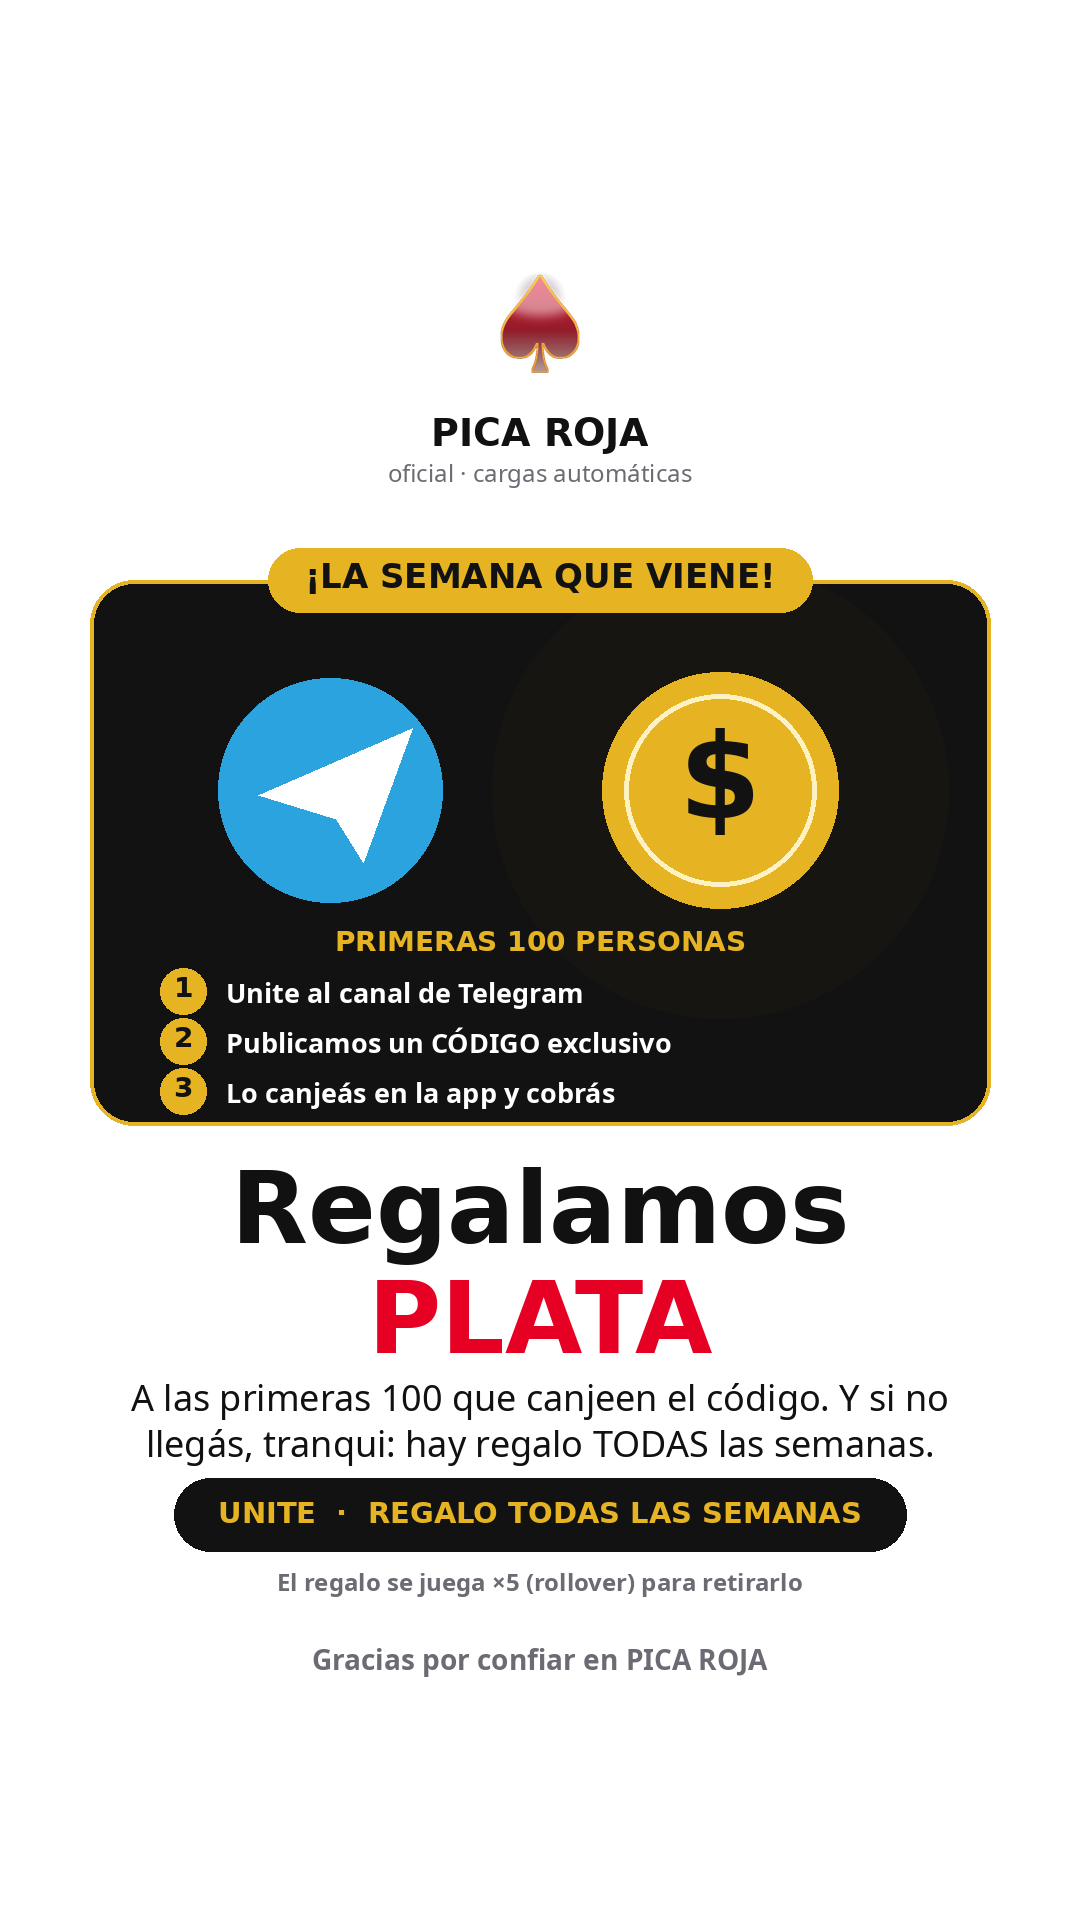
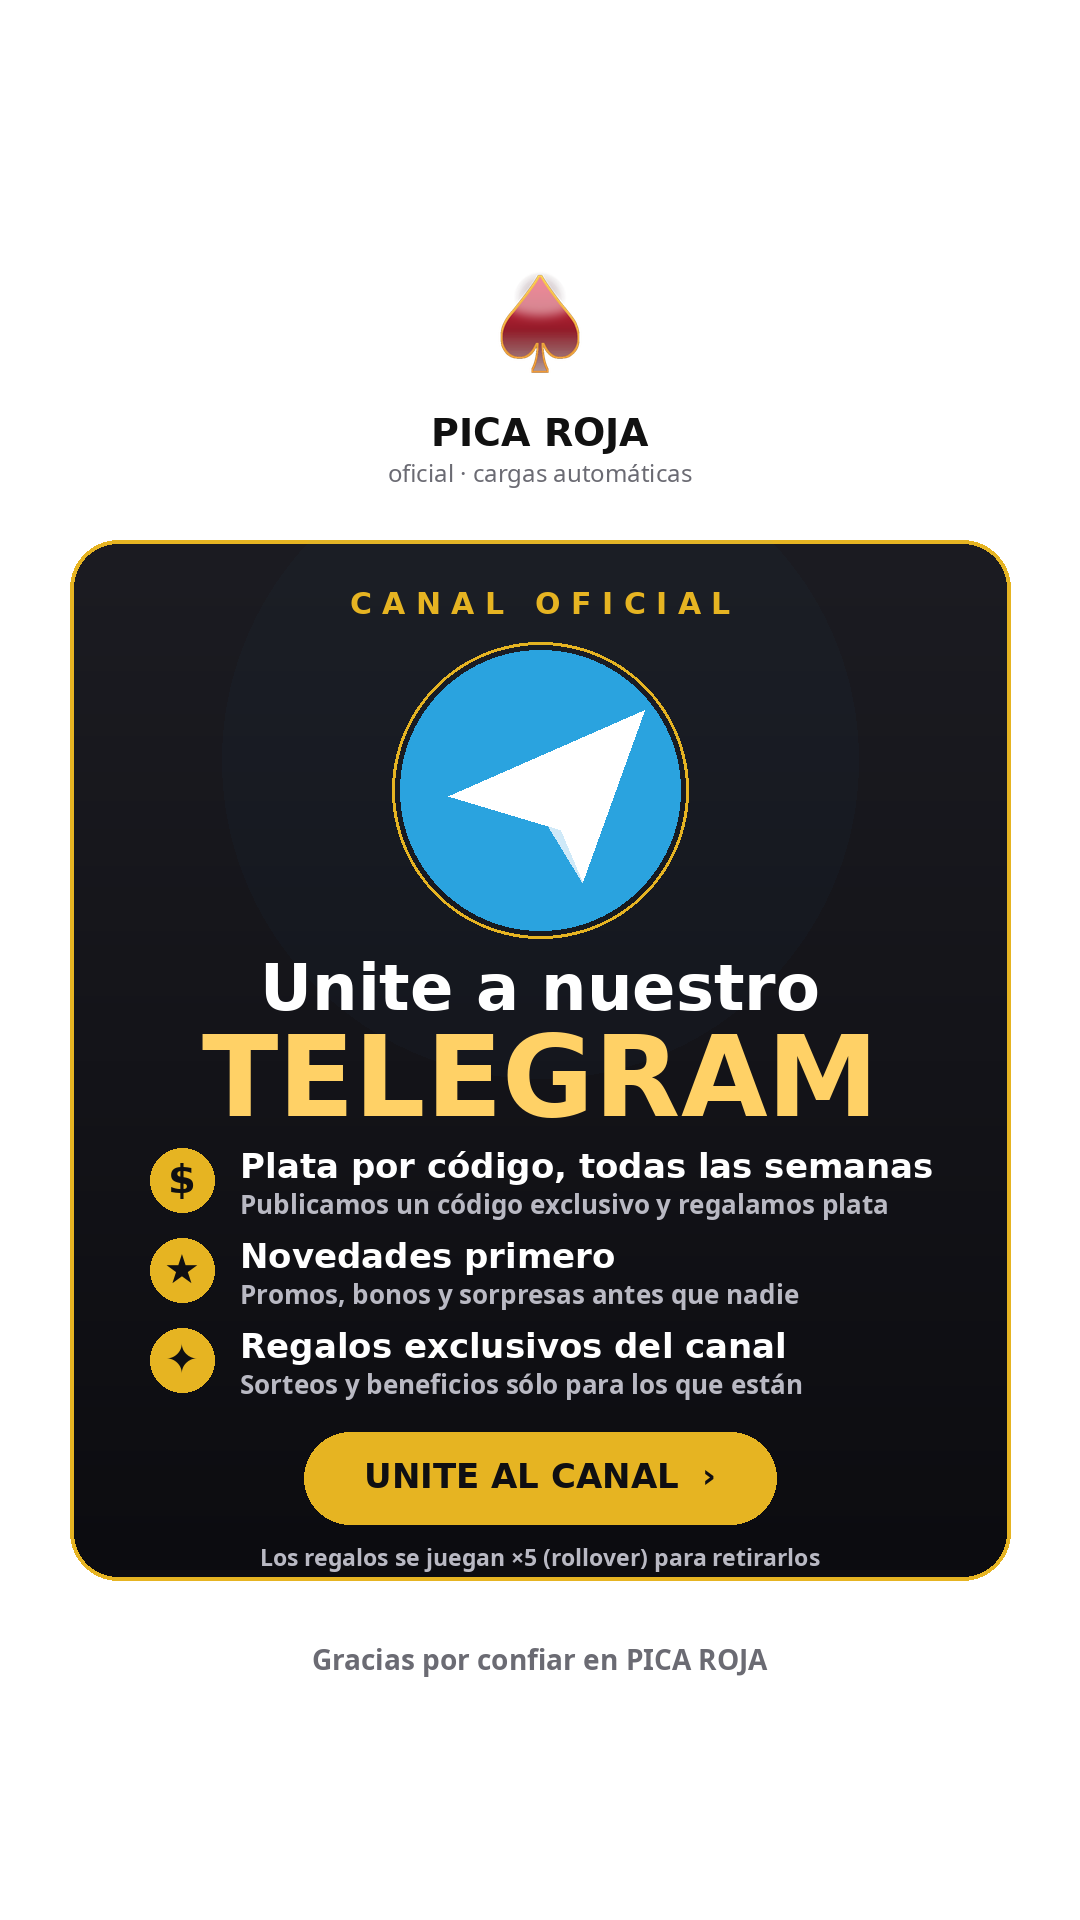
feat(stories): historia de Telegram rediseñada (canal oficial, plata por código semanal, novedades, regalos exclusivos) — WORKLOG #680

Changed region(s): [[0.0611, 0.2812, 0.9472, 0.8438]]

diff --git a/WORKLOG.md b/WORKLOG.md
@@ -8,6 +8,15 @@
 
 ## Sesión 2026-10-18
 
+### 680. 📖 Historia de Telegram rediseñada: canal oficial, plata por código todas las semanas, novedades y regalos exclusivos
+**Pedido (owner, captura):** "hacela mejor, con más estilo, no tan así; que dé predominancia a entrar a Telegram y a los beneficios de
+lo que publicamos: regalamos plata por código todas las semanas y nuestras novedades". **Foto** `st2-7.png` (gen_stories.py `s7`
+reescrita): tarjeta oscura con degradé y borde dorado, kicker "CANAL OFICIAL", avión de Telegram grande con brillo (recortado a la
+tarjeta), "Unite a nuestro TELEGRAM" en dorado, tres beneficios con medallón dorado ($ Plata por código, todas las semanas · ★ Novedades
+primero · ✦ Regalos exclusivos del canal) y botón dorado "UNITE AL CANAL ›"; nota rollover ×5 chica. Se fue el "la semana que viene /
+primeras 100" (#652). Texto de la historia en la DB: "Unite a nuestro canal de Telegram: plata por código todas las semanas, novedades
+primero y regalos exclusivos del canal." Republicadas las 8 en el orden de #676 (Telegram anteúltima, SMS última).
+
 ### 679. 🎰 Ruleta: el +100% EXTRA baja al 3% (el +20% sube al 50%); reembolsos quedan como están hasta diciembre
 **Contexto:** revisión de toda la configuración de regalos pedida por el owner ("armar algo para que no me dé pérdidas"). Veredicto
 entregado en el chat: fueguito, niveles VIP, referidos, segunda carga y extra por instalar se pagan solos o están acotados con el
